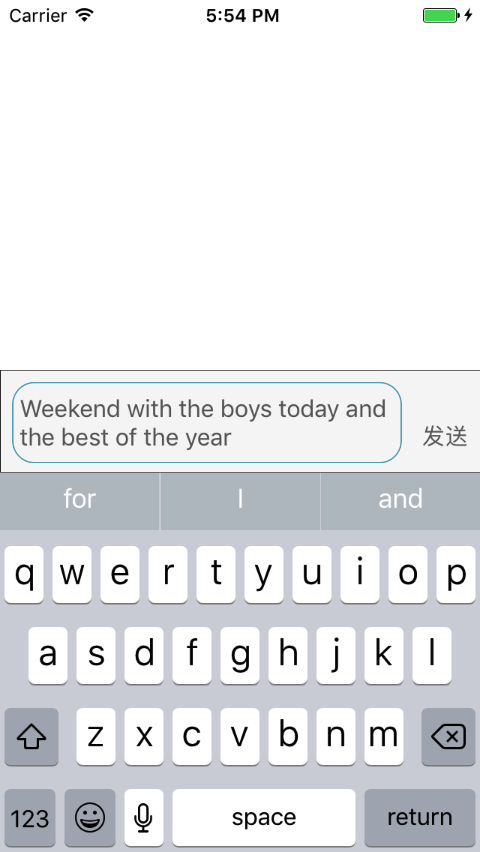
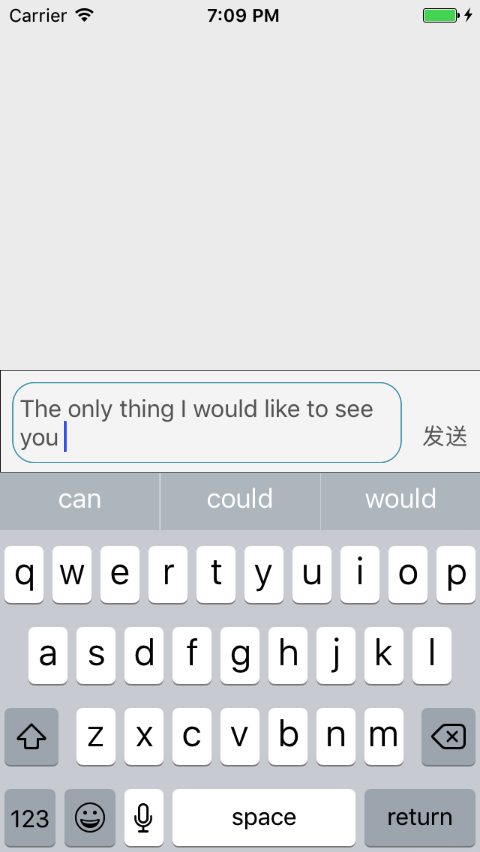
修改背景色

diff --git a/QGSendReply/ViewController.m b/QGSendReply/ViewController.m
@@ -18,7 +18,7 @@
     [super viewDidLoad];
     // Do any additional setup after loading the view, typically from a nib.
     
-    self.view.backgroundColor = [UIColor whiteColor];
+    self.view.backgroundColor = UIColor(239, 239, 239, 1);
     [self.view addSubview:self.sendReplyView];
 }
 
